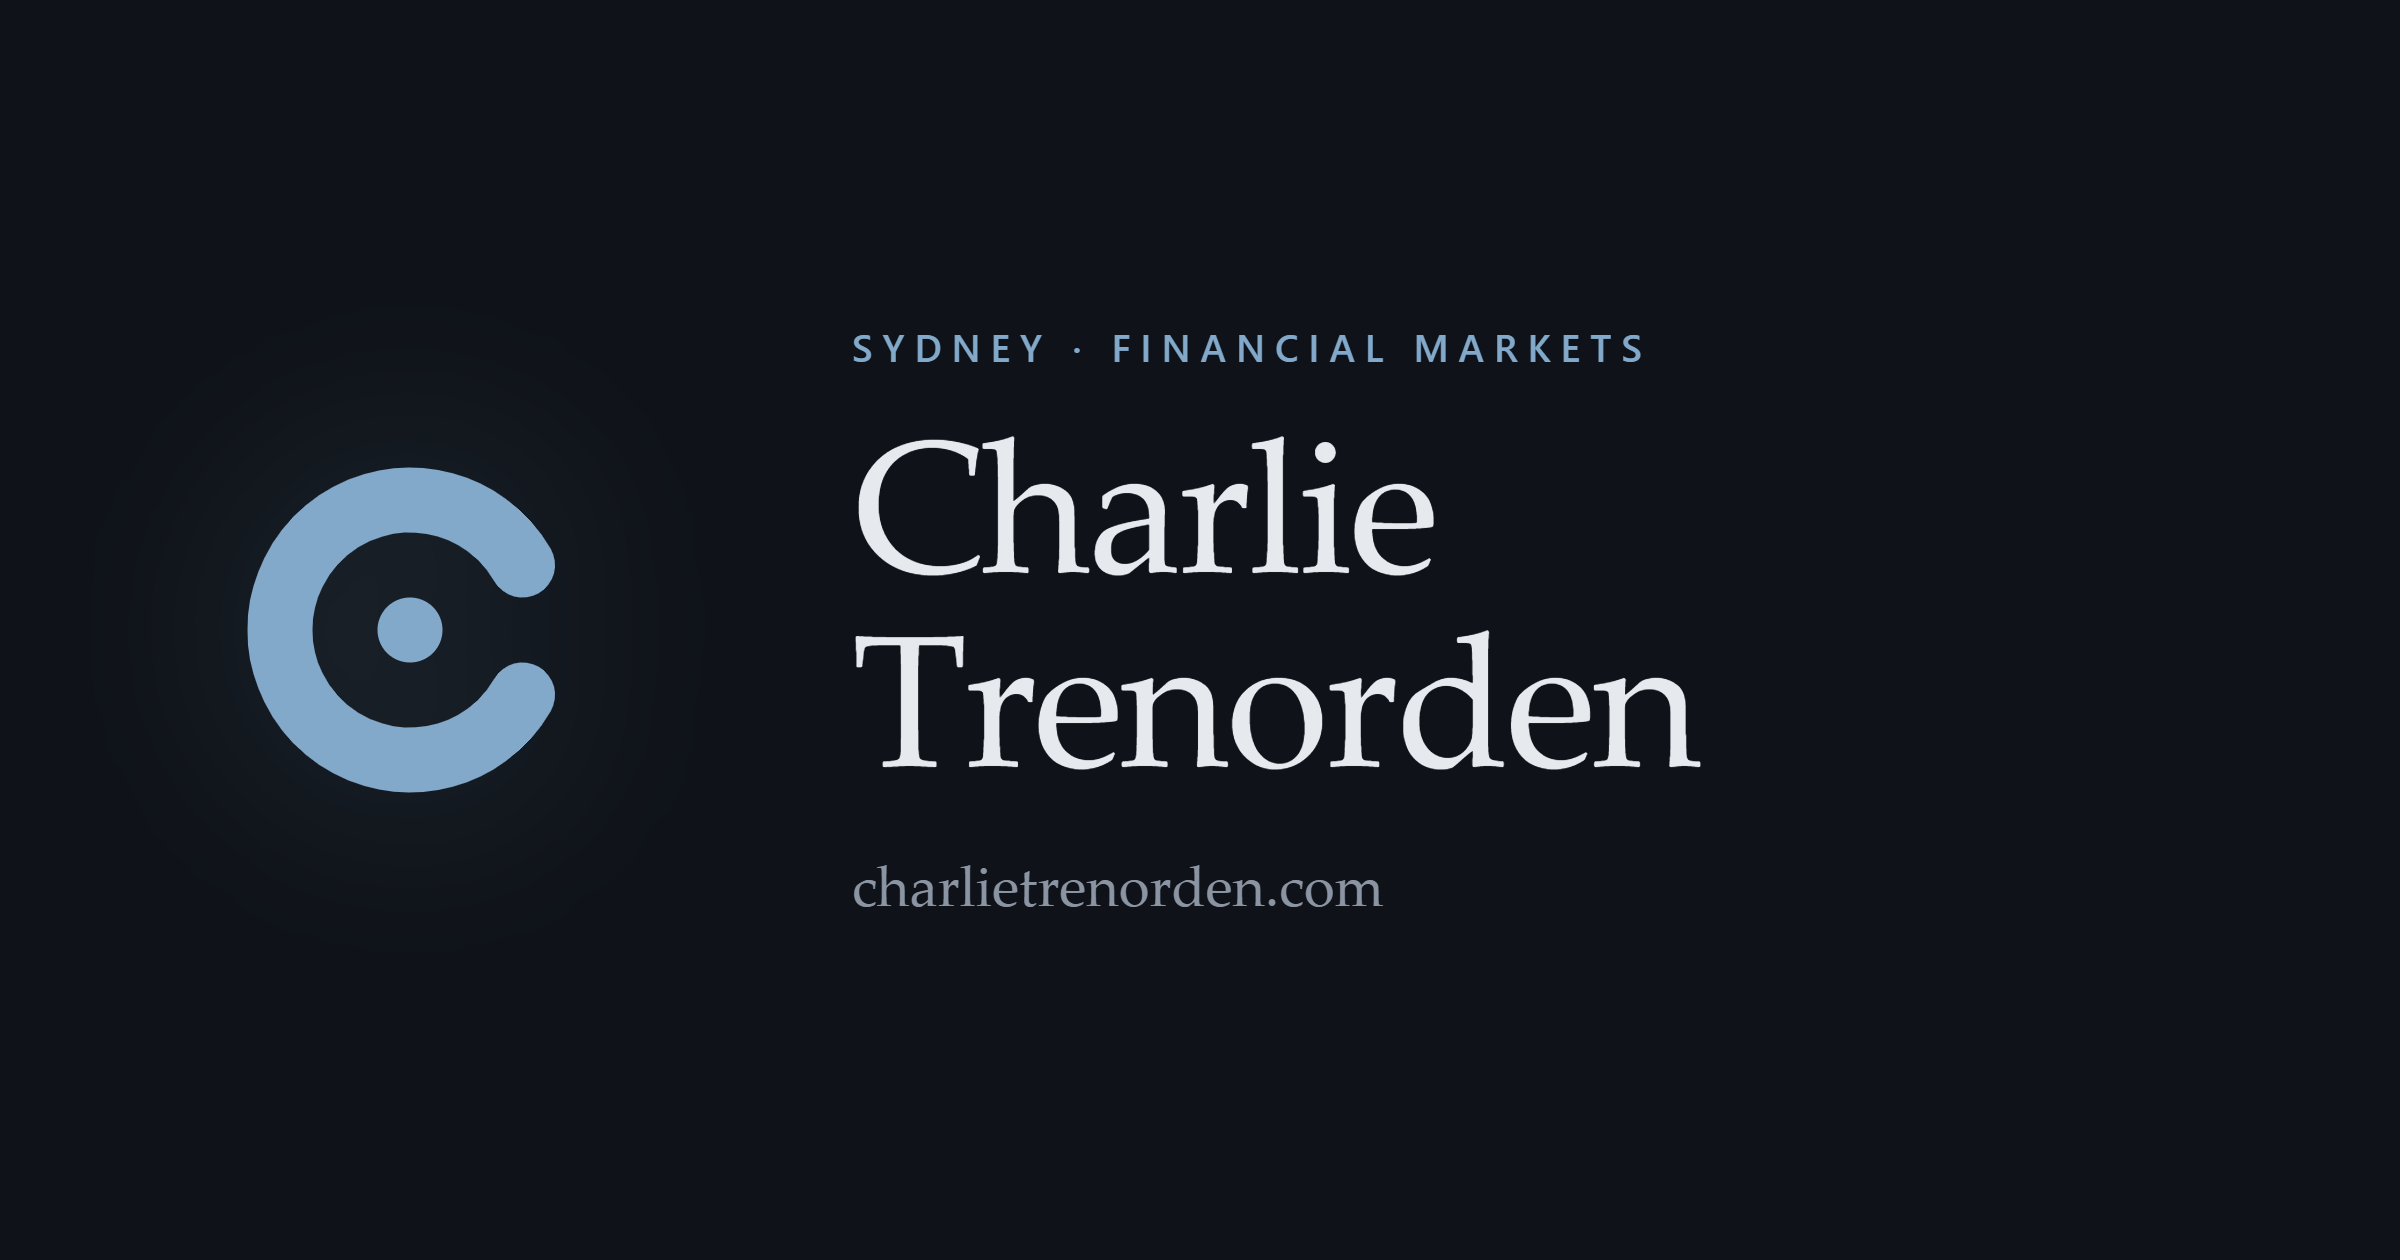
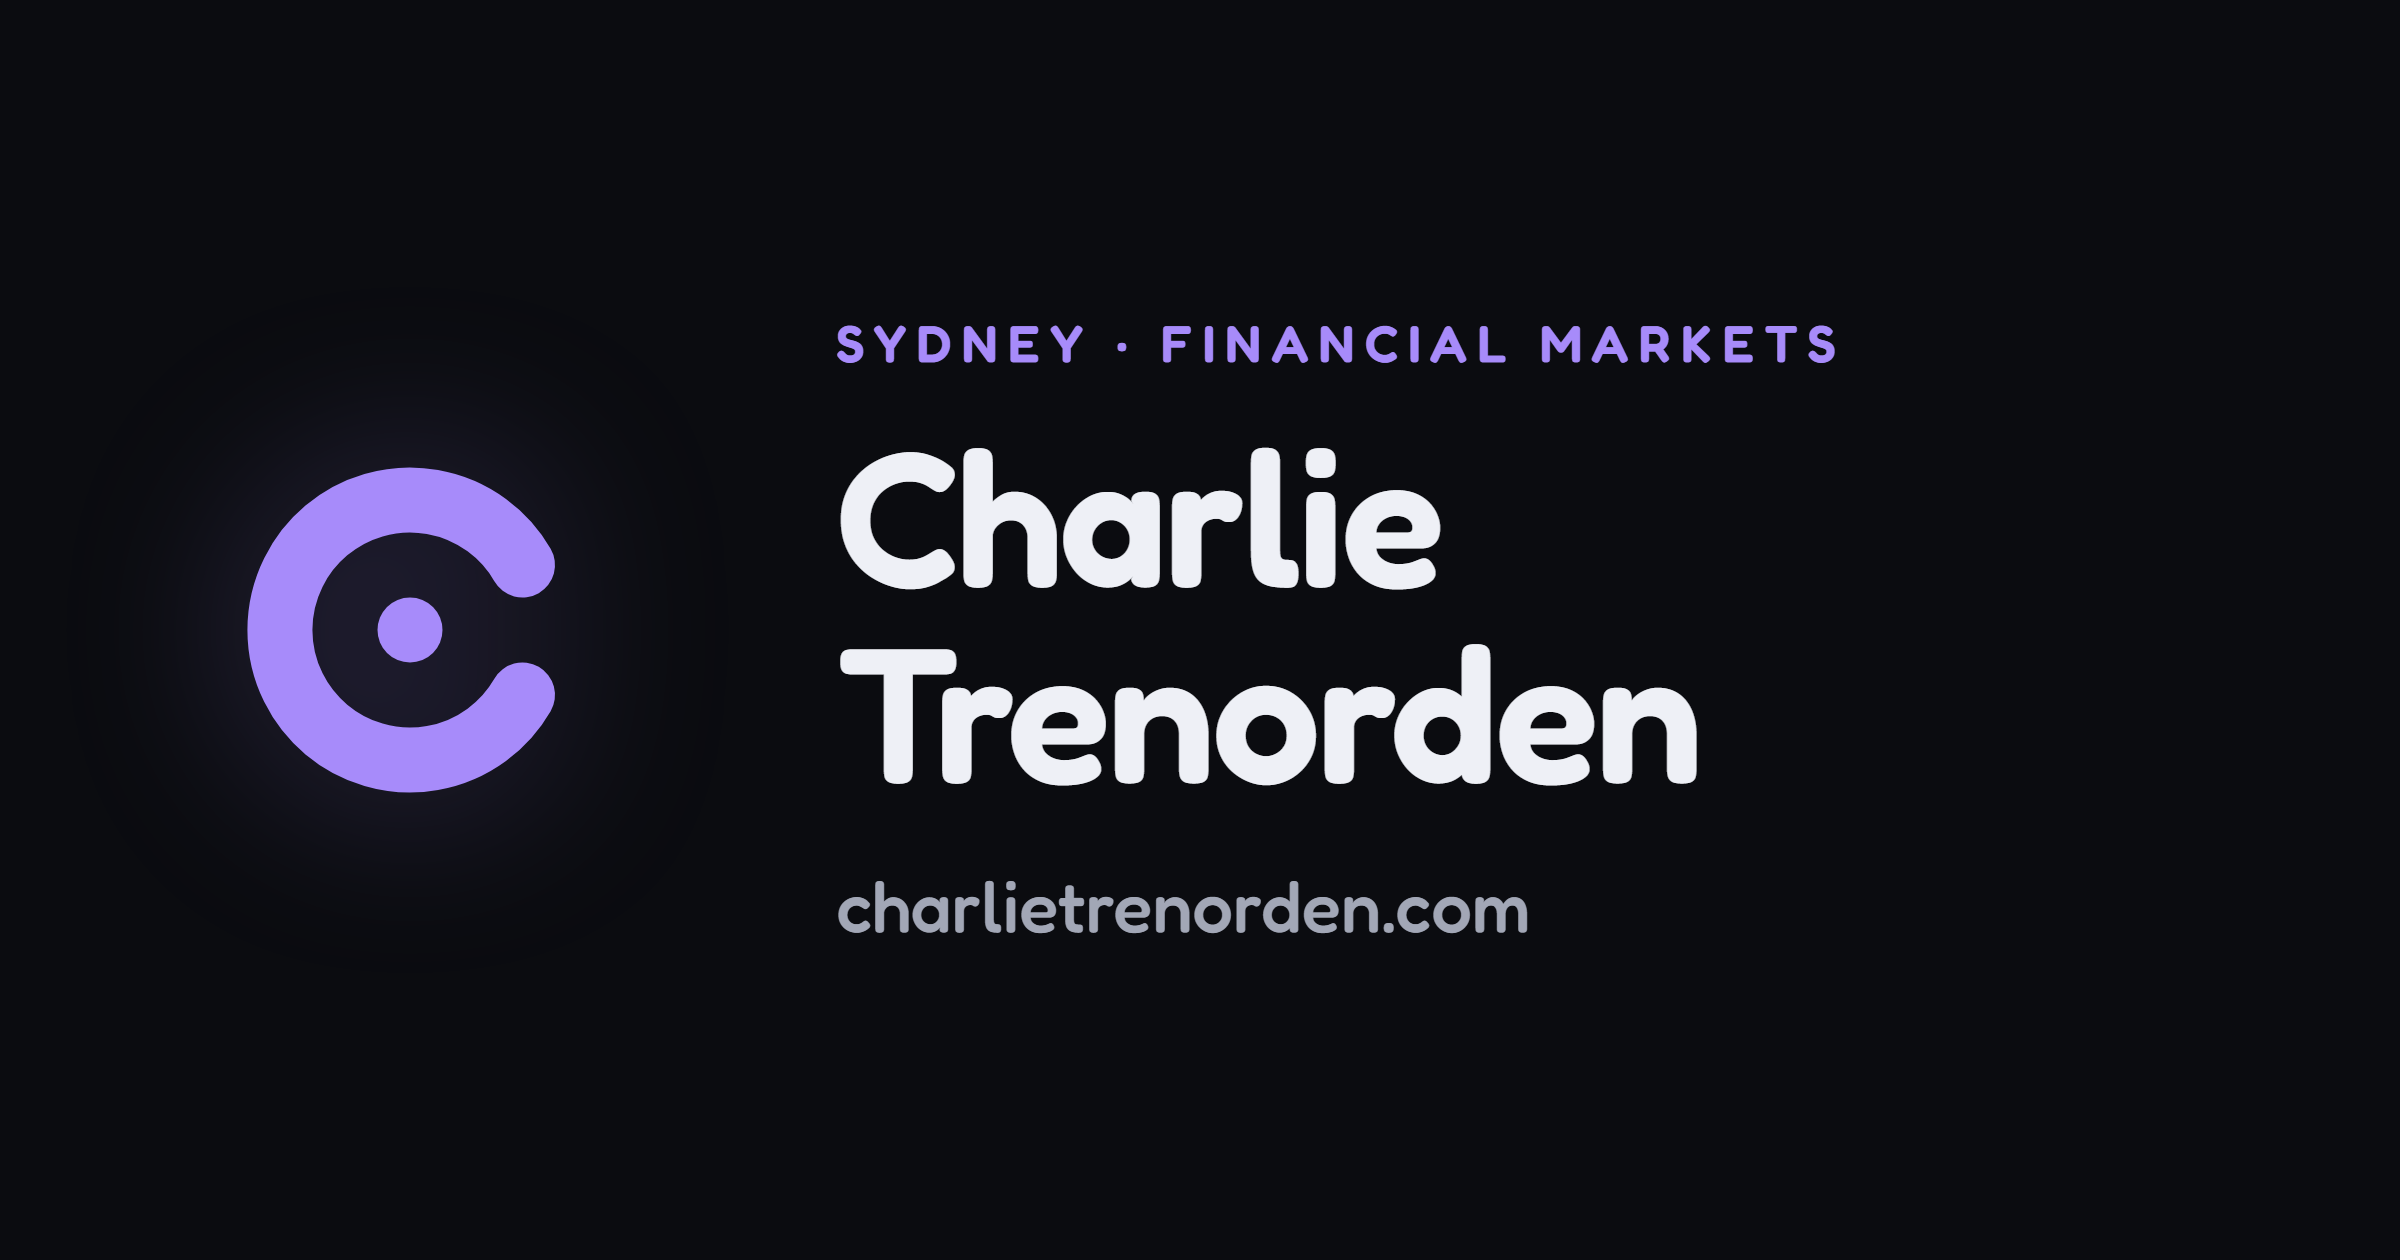
Hub mark and share card in the new palette
Aperture favicon in violet on near-black (all sizes), and the share card in the
page's tokens and Fredoka with a bigger eyebrow and domain. og:image carries a
version query so WhatsApp and LinkedIn fetch the new card instead of the cached one.

diff --git a/assets/og-card-source.html b/assets/og-card-source.html
@@ -1,20 +1,19 @@
-<!DOCTYPE html><html><head><meta charset="utf-8"><style>
+<!DOCTYPE html><html><head><meta charset="utf-8"><meta name="robots" content="noindex"><style>
+  /* The hub's share card. Render at a 2400x1260 viewport and screenshot to og-card.png.
+     The page's own tokens and face (12/10/2026 redesign). */
+  @font-face{font-family:"Fredoka";src:url("fonts/fredoka-latin.woff2") format("woff2");font-weight:300 700}
   *,*::before,*::after{box-sizing:border-box}
   html,body{margin:0;padding:0}
-  body{width:2400px;height:1260px;overflow:hidden;background:#0f1319;color:#e6e9ee;
-       font:400 18px/1.6 "Iowan Old Style","Palatino Linotype",Palatino,Georgia,serif;
-       -webkit-font-smoothing:antialiased}
-  .card{width:1200px;height:630px;transform:scale(2);transform-origin:top left;padding:72px 80px;display:flex;flex-direction:column;
-        justify-content:space-between;position:relative}
-  .eyebrow{font:600 17px/1 ui-sans-serif,system-ui,sans-serif;letter-spacing:.26em;
-           text-transform:uppercase;color:#82a8ca;margin:0}
-  .name{font-weight:400;letter-spacing:-.02em;margin:0}
-  .domain{font:500 22px/1 ui-sans-serif,system-ui,sans-serif;color:#8a94a3;margin:0}
-  .rule{height:1px;background:#262d38;border:0;margin:0}
-  .mark{flex:none}
-  .card{flex-direction:row;align-items:center;justify-content:flex-start;gap:96px}.name{font-size:94px;line-height:1.03}.lede{font-size:28px;color:#8a94a3;margin:24px 0 0}.eyebrow{font-size:19px}.mark{filter:drop-shadow(0 0 40px rgba(130,168,202,.18))}
-</style></head><body><div class="card"><svg class='mark' width='250' height='250' viewBox='0 0 100 100'><path d='M72.5 37 A26 26 0 1 0 72.5 63' fill='none' stroke='#82a8ca' stroke-width='13' stroke-linecap='round'/><circle cx='50' cy='50' r='6.5' fill='#82a8ca'/></svg>
-  <div><p class="eyebrow" style="margin-bottom:20px">Sydney &middot; Financial markets</p>
+  body{width:2400px;height:1260px;overflow:hidden;background:#0b0c10;color:#eef0f6;
+       font:400 18px/1.6 "Fredoka",ui-rounded,system-ui,sans-serif;-webkit-font-smoothing:antialiased}
+  .card{width:1200px;height:630px;transform:scale(2);transform-origin:top left;padding:72px 80px;display:flex;
+        flex-direction:row;align-items:center;justify-content:flex-start;gap:88px;position:relative}
+  .mark{flex:none;filter:drop-shadow(0 0 44px rgba(167,139,250,.28))}
+  .eyebrow{font:600 26px/1 "Fredoka",sans-serif;letter-spacing:.2em;text-transform:uppercase;color:#a78bfa;margin:0 0 24px}
+  .name{font:600 96px/1.02 "Fredoka",sans-serif;letter-spacing:-.015em;margin:0}
+  .domain{font:500 36px/1 "Fredoka",sans-serif;color:#a2a7b6;margin:30px 0 0}
+</style></head><body><div class="card"><svg class="mark" width="250" height="250" viewBox="0 0 100 100"><path d="M72.5 37 A26 26 0 1 0 72.5 63" fill="none" stroke="#a78bfa" stroke-width="13" stroke-linecap="round"/><circle cx="50" cy="50" r="6.5" fill="#a78bfa"/></svg>
+  <div><p class="eyebrow">Sydney &middot; Financial Markets</p>
     <h1 class="name">Charlie<br>Trenorden</h1>
-    <p class="lede">charlietrenorden.com</p></div>
+    <p class="domain">charlietrenorden.com</p></div>
 </div></body></html>

diff --git a/index.html b/index.html
@@ -17,7 +17,7 @@
 <meta property="og:description" content="Small things I built, from Sydney, to answer questions I could not just look up - what a company is worth with every assumption on show, what the crowd thinks happens next, what people still read a century on.">
 <meta property="og:url" content="https://charlietrenorden.com/">
 <link rel="canonical" href="https://charlietrenorden.com/">
-<meta property="og:image" content="https://charlietrenorden.com/assets/og-card.png">
+<meta property="og:image" content="https://charlietrenorden.com/assets/og-card.png?v=20261012">
 <meta property="og:image:width" content="2400">
 <meta property="og:image:height" content="1260">
 <meta property="og:image:alt" content="Charlie Trenorden - Sydney, financial markets.">

diff --git a/position-record/index.html b/position-record/index.html
@@ -16,7 +16,7 @@
 <meta property="og:description" content="Every position, open and closed, with the reasoning recorded at entry.">
 <meta property="og:url" content="https://charlietrenorden.com/position-record/">
 <link rel="canonical" href="https://charlietrenorden.com/position-record/">
-<meta property="og:image" content="https://charlietrenorden.com/assets/og-card.png">
+<meta property="og:image" content="https://charlietrenorden.com/assets/og-card.png?v=20261012">
 <meta property="og:image:width" content="2400">
 <meta property="og:image:height" content="1260">
 <meta property="og:image:alt" content="Charlie Trenorden - Sydney, financial markets.">

diff --git a/research/index.html b/research/index.html
@@ -14,7 +14,7 @@
 <meta property="og:description" content="Company research and thesis reviews on listed equities.">
 <meta property="og:url" content="https://charlietrenorden.com/research/">
 <link rel="canonical" href="https://charlietrenorden.com/research/">
-<meta property="og:image" content="https://charlietrenorden.com/assets/og-card.png">
+<meta property="og:image" content="https://charlietrenorden.com/assets/og-card.png?v=20261012">
 <meta property="og:image:width" content="2400">
 <meta property="og:image:height" content="1260">
 <meta property="og:image:alt" content="Charlie Trenorden - Sydney, financial markets.">
